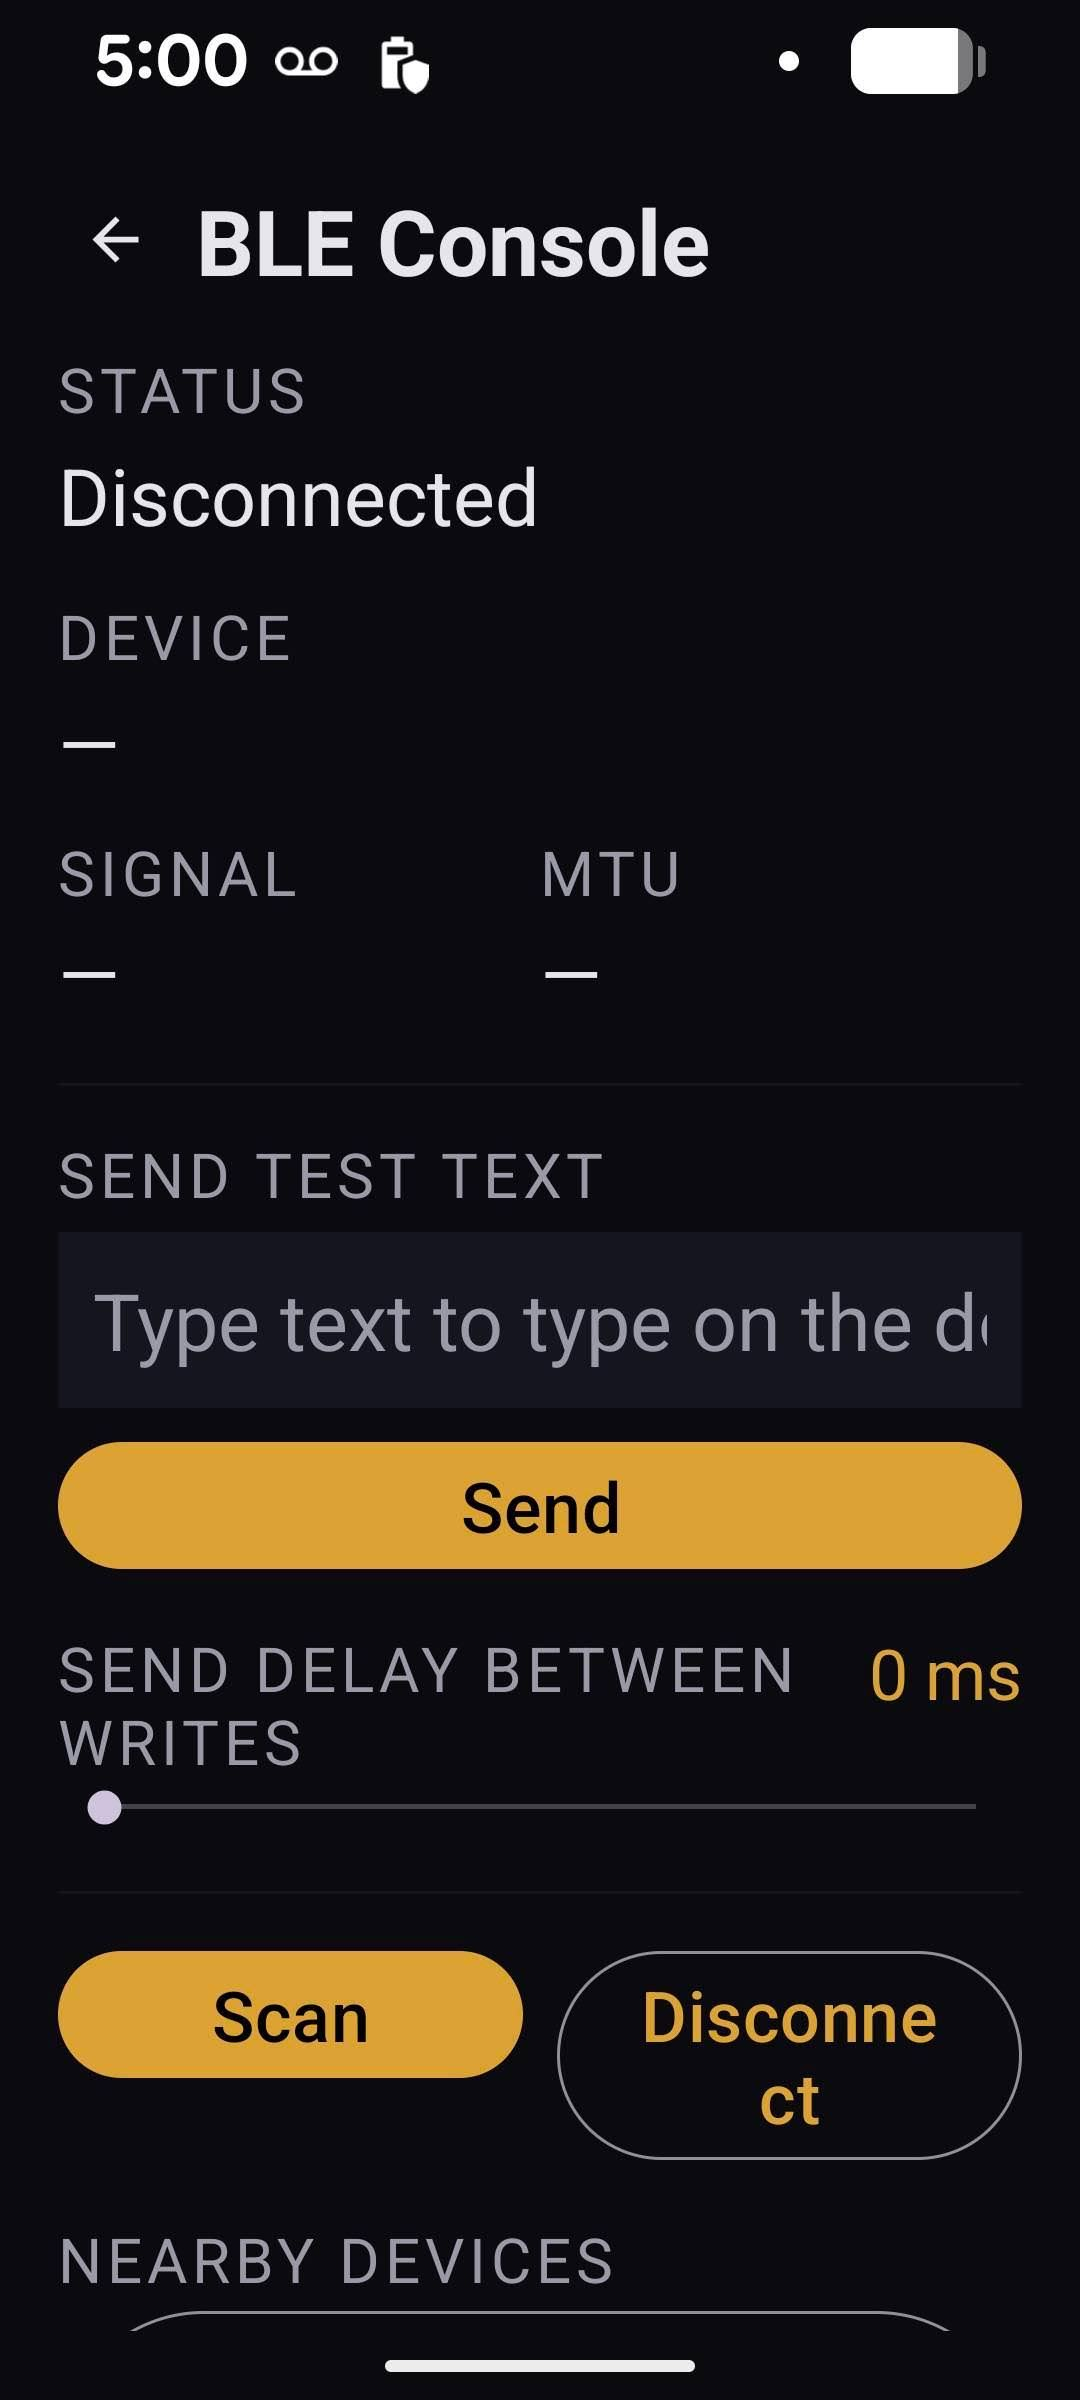
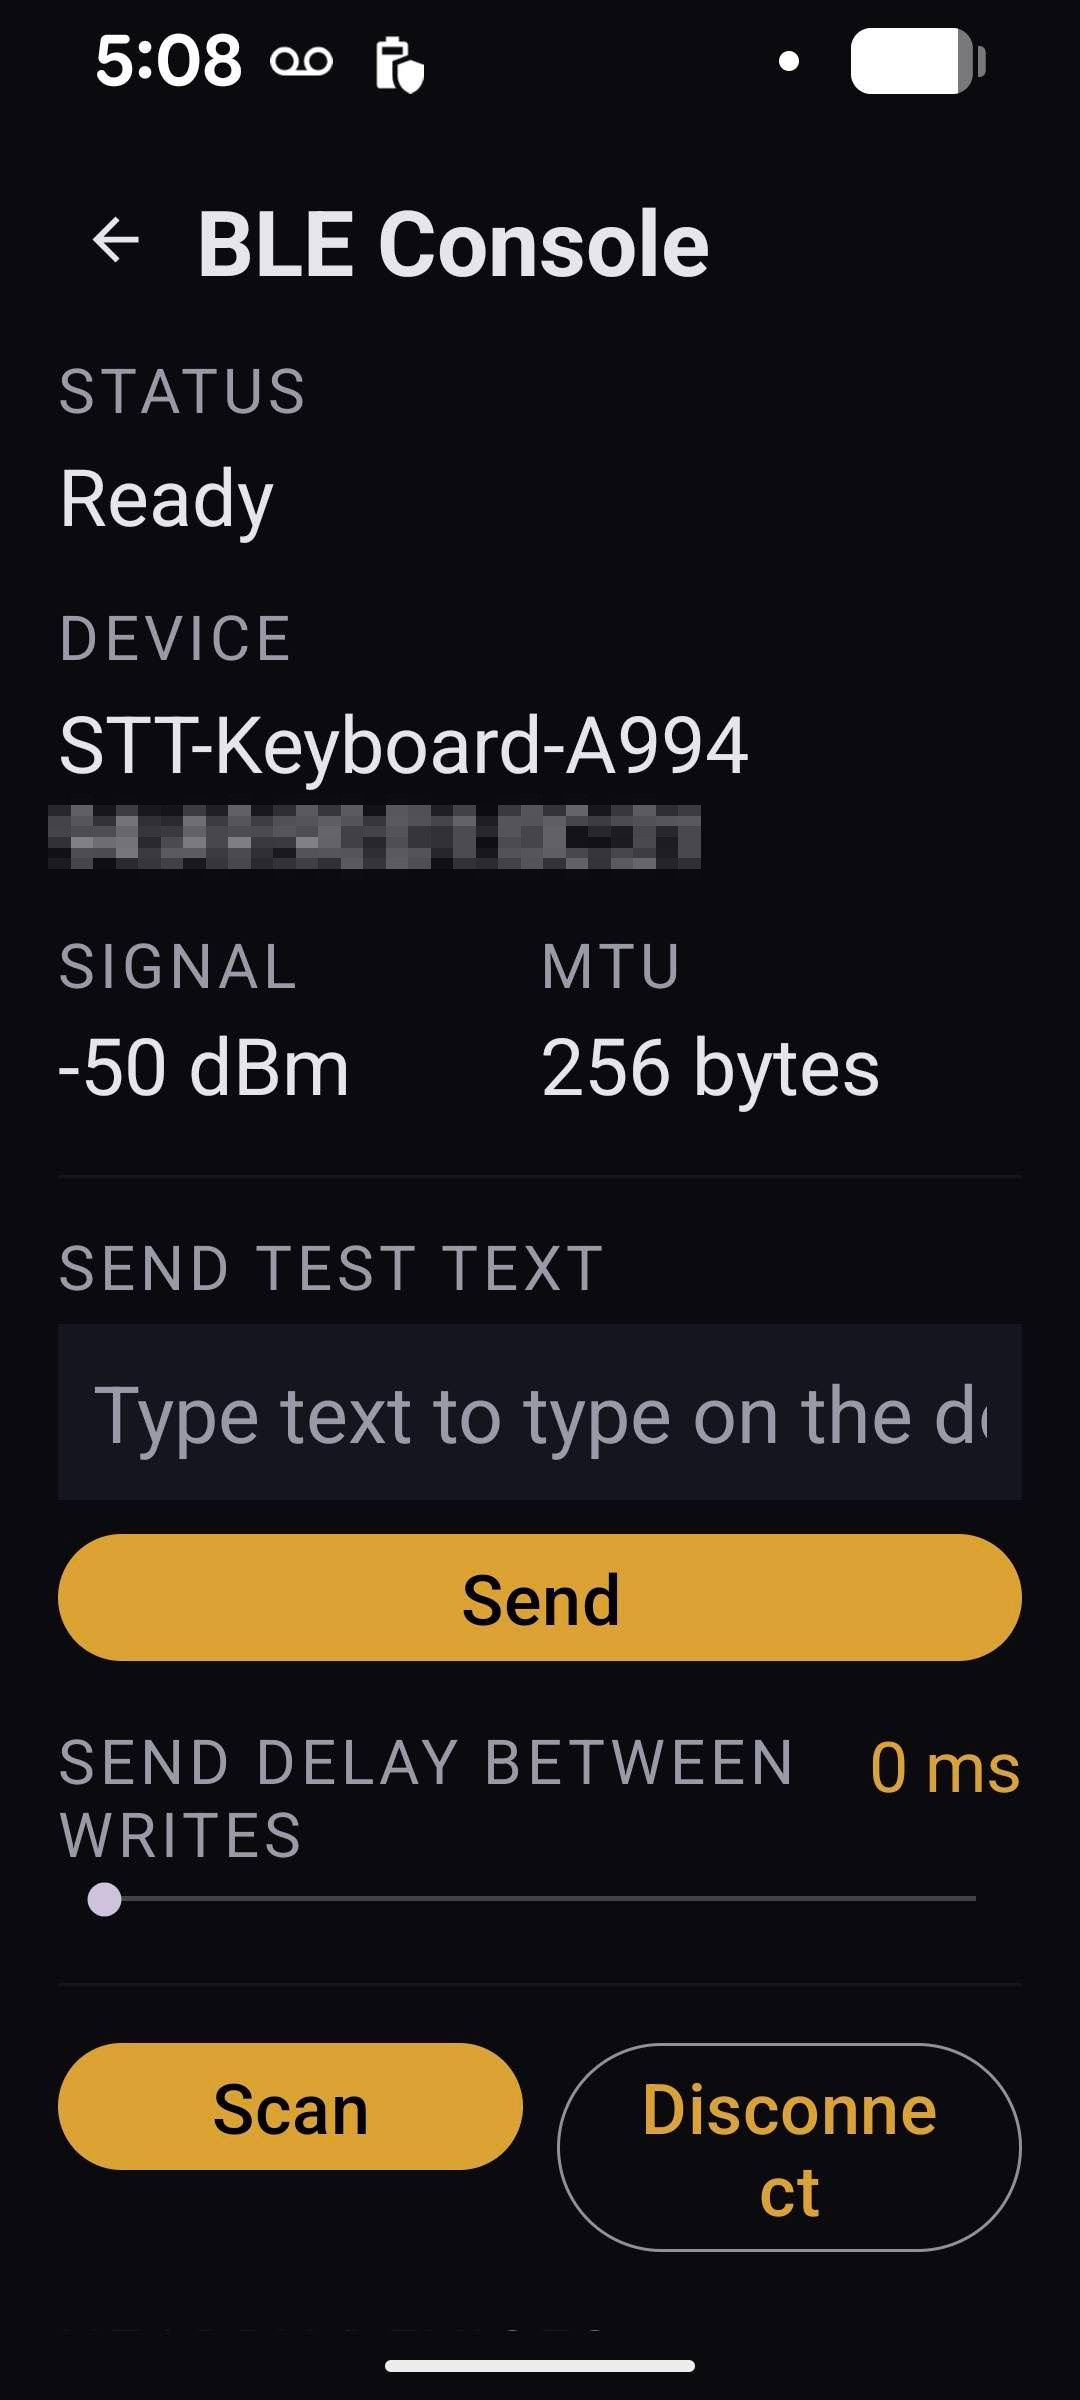
README: swap BLE Console shot for a connected one (MAC masked)
Replace the disconnected BLE Console screenshot with a live, connected capture:
STATUS Ready, device name STT-Keyboard-A994, signal -50 dBm, MTU 256 bytes — a
better demonstration of the console working. The dongle's BLE hardware address is
pixelated/masked; the raw unmasked capture was never committed.

diff --git a/README.md b/README.md
@@ -23,8 +23,8 @@ on the target machine.
       <sub><b>Main screen</b> — connected (“Ready”), a live transcript, Enter/Tab/Bksp keys, and a big <i>Start dictation</i> button.</sub>
     </td>
     <td align="center" width="33%">
-      <img src="docs/images/software2.jpg" alt="STT Keyboard Android app BLE Console — scan, send test text, per-write delay, and nearby devices" width="175"><br>
-      <sub><b>BLE Console</b> (gear) — scan/connect, live status &amp; MTU, send test text, a per-write delay slider, and a nearby-devices list for switching dongles.</sub>
+      <img src="docs/images/software2.jpg" alt="STT Keyboard Android app BLE Console — connected to the dongle, showing live signal and MTU (address masked)" width="175"><br>
+      <sub><b>BLE Console</b> (gear) — connected and <b>Ready</b>: live device name, signal (−50 dBm) and negotiated MTU, plus send-test-text, a per-write delay slider, and a nearby-devices list for switching dongles. <sub>(BLE address masked.)</sub></sub>
     </td>
   </tr>
 </table>